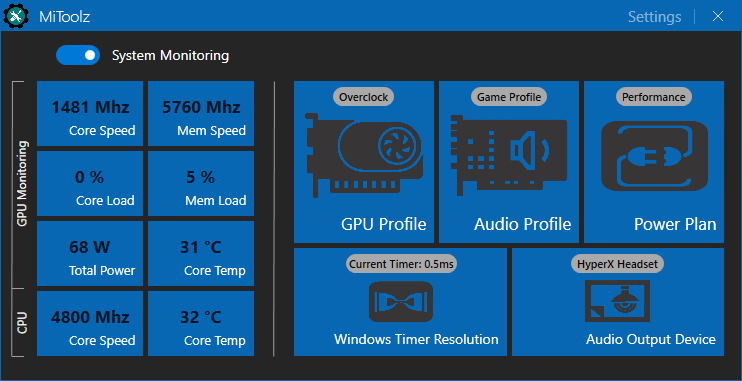
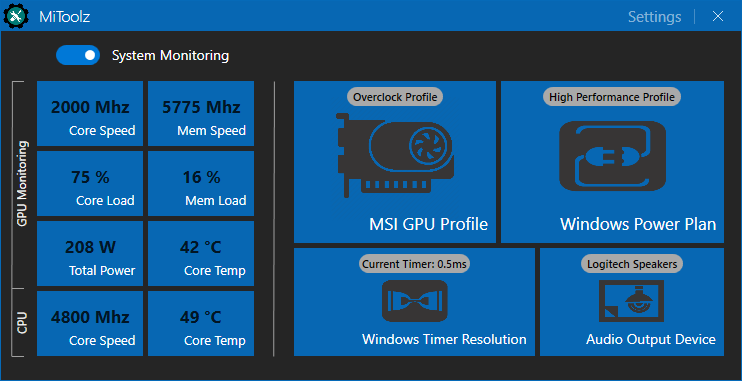
Update v3.6.0 ..
- Removed Soundblaster Audio profile switcher (Using APO Equalizer on main machine which has the ability to know when device has been switched and can assign equalizer profile based on default assigned audio device)
- Removed unused methods etc
- Updated readme to reflect new changes and features
- Updated repo images to reflect new changes etc
- Bumped to v3.6.0

diff --git a/MiToolz/MainWindow.xaml b/MiToolz/MainWindow.xaml
@@ -236,7 +236,7 @@
         </Separator>
         <mah:Tile x:Name="GpuTile"
                   Click="GpuTile_OnClick"
-                  Title="GPU Profile"
+                  Title="MSI GPU Profile"
                   TitleFontSize="17"
                   HorizontalTitleAlignment="Right"
                   Margin="267,50,0,0"
@@ -246,7 +246,8 @@
                   Height="162"
                   VerticalAlignment="Top"
                   HorizontalAlignment="Left"
-                  IsTabStop="False">
+                  IsTabStop="False"
+                  Width="202">
             <mah:Badged x:Name="GpuProfileBadge"
                         Badge=""
                         BadgeForeground="Black"
@@ -261,17 +262,18 @@
         </mah:Tile>
         <mah:Tile x:Name="PowerPlanTile"
                   Click="PowerPlanTile_OnCLick"
-                  Title="Power Plan"
+                  Title="Windows Power Plan"
                   TitleFontSize="17"
                   HorizontalTitleAlignment="Right"
-                  Margin="557,50,0,0"
+                  Margin="474,50,0,0"
                   mah:ControlsHelper.MouseOverBorderBrush="{DynamicResource MahApps.Brushes.ThemeForeground}"
                   Background="{DynamicResource MahApps.Brushes.Accent}"
                   Cursor="Hand"
                   Height="162"
                   VerticalAlignment="Top"
                   HorizontalAlignment="Left"
-                  IsTabStop="False">
+                  IsTabStop="False"
+                  Width="223">
             <mah:Badged x:Name="PowerPlanBadge"
                         Badge=""
                         BadgeForeground="Black"
@@ -280,31 +282,6 @@
                 <Image VerticalAlignment="Center"
                        HorizontalAlignment="Center"
                        Source="pack://siteoforigin:,,,/Resources/Image_PowerPlan.png"
-                       Width="130"
-                       Height="130" />
-            </mah:Badged>
-        </mah:Tile>
-        <mah:Tile x:Name="AudioTile"
-                  Click="AudioTile_OnClick"
-                  Title="Audio Profile"
-                  TitleFontSize="17"
-                  HorizontalTitleAlignment="Right"
-                  Margin="412,50,0,0"
-                  mah:ControlsHelper.MouseOverBorderBrush="{DynamicResource MahApps.Brushes.ThemeForeground}"
-                  Background="{DynamicResource MahApps.Brushes.Accent}"
-                  Cursor="Hand"
-                  Height="162"
-                  VerticalAlignment="Top"
-                  HorizontalAlignment="Left"
-                  IsTabStop="False">
-            <mah:Badged x:Name="AudioProfileBadge"
-                        Badge=""
-                        BadgeForeground="Black"
-                        BadgePlacementMode="Top"
-                        BadgeBackground="DarkGray">
-                <Image VerticalAlignment="Center"
-                       HorizontalAlignment="Center"
-                       Source="pack://siteoforigin:,,,/Resources/Image_Audio.png"
                        Width="130"
                        Height="130" />
             </mah:Badged>
@@ -319,7 +296,7 @@
                   Background="{DynamicResource MahApps.Brushes.Accent}"
                   Cursor="Hand"
                   Height="108"
-                  Width="213"
+                  Width="241"
                   VerticalAlignment="Top"
                   HorizontalAlignment="Left"
                   IsTabStop="False">
@@ -329,12 +306,11 @@
                         BadgePlacementMode="Top"
                         BadgeBackground="DarkGray"
                         Height="76">
-            <Image VerticalAlignment="Center"
-                   HorizontalAlignment="Center"
+                <Image VerticalAlignment="Center"
+                       HorizontalAlignment="Center"
                        Source="pack://siteoforigin:,,,/Resources/Image_TimerResolution.png"
-                       Width="90"
-                       Height="74"
-                       Margin="0,2,0,0" />
+                       Width="99"
+                       Height="76" />
             </mah:Badged>
         </mah:Tile>
         <mah:Tile x:Name="AudioDeviceSwitchTile"
@@ -342,12 +318,12 @@
                   Title="Audio Output Device"
                   TitleFontSize="14"
                   HorizontalTitleAlignment="Right"
-                  Margin="485,217,0,0"
+                  Margin="513,217,0,0"
                   mah:ControlsHelper.MouseOverBorderBrush="{DynamicResource MahApps.Brushes.ThemeForeground}"
                   Background="{DynamicResource MahApps.Brushes.Accent}"
                   Cursor="Hand"
                   Height="108"
-                  Width="212"
+                  Width="184"
                   VerticalAlignment="Top"
                   HorizontalAlignment="Left"
                   IsTabStop="False">

diff --git a/MiToolz/App.xaml b/MiToolz/App.xaml
@@ -16,9 +16,9 @@
                 </ResourceDictionary>
             </ResourceDictionary.MergedDictionaries>
             <system:String x:Key="VersionNo"
-                           xml:space="preserve">  MiToolz  v3.5.2  </system:String>
+                           xml:space="preserve">  MiToolz  v3.6.0  </system:String>
             <system:String x:Key="VersionDate"
-                           xml:space="preserve">  Build Date : 29-06-2020  </system:String>
+                           xml:space="preserve">  Build Date : 16-07-2020  </system:String>
         </ResourceDictionary>
     </Application.Resources>
 </Application>

diff --git a/MiToolz/MainWindow.xaml.cs b/MiToolz/MainWindow.xaml.cs
@@ -28,7 +28,6 @@ namespace MiToolz
         private static string _powerPlanBalanced;
         private static string _powerPlanPerformance;
         private static string _sbControlFile;
-        private static string _sbControlActiveProfile;
         private static string _msiabFile;
         private static string _isMonitoringEnabled;
         private static string _appTheme;
@@ -62,7 +61,6 @@ namespace MiToolz
             //run startup checks, read all config settings and set corresponding UI elements
             StartupSetup();
             SetAppTheme();
-            ShowActiveAudioProfile();
             ShowActiveGpuProfile();
             ShowActivePowerPlan();
             ShowDefaultAudioDevice();
@@ -91,12 +89,11 @@ namespace MiToolz
 
             //check for ini file, if not found then create new file and write default values to it
             var myConfigManager = Properties.Resources.MyConfigManager;
-            var sbControlFilePath = Properties.Resources.SBControl_FilePath;
             var msiabFilePath = Properties.Resources.MSIAB_FilePath;
             var defaultStockProfile = Properties.Resources.DefaultStockProfile;
             var defaultOcProfile = Properties.Resources.DefaultOCProfile;
             var powerPlanBalanced = Properties.Resources.PowerPlanBalanced;
-            var powerPlanPerformance = Properties.Resources.PowerPlanPerformance;
+            var powerPlanPerformance = Properties.Resources.PowerPlanHighPerformance;
             var defaultMonitoringEnabled = Properties.Resources.DefaultMonitoringEnabled;
             var defaultAppTheme = Properties.Resources.DefaultAppTheme;
             var defaultGameModeHotKey = Properties.Resources.DefaultGameModeHotKey;
@@ -112,7 +109,6 @@ namespace MiToolz
                 ConfigManager.IniWrite("OCProfile", defaultOcProfile);
                 ConfigManager.IniWrite("PowerPlanBalanced", powerPlanBalanced);
                 ConfigManager.IniWrite("PowerPlanPerformance", powerPlanPerformance);
-                ConfigManager.IniWrite("SBControl_File", sbControlFilePath);
                 ConfigManager.IniWrite("MSIAB_File", msiabFilePath);
                 ConfigManager.IniWrite("IsMonitoringEnabled", defaultMonitoringEnabled);
                 ConfigManager.IniWrite("AppTheme", defaultAppTheme);
@@ -147,27 +143,6 @@ namespace MiToolz
             _audioDevice1 = ConfigManager.IniRead("AudioDeviceNo1");
             _audioDevice2 = ConfigManager.IniRead("AudioDeviceNo2");
             _defaultAudioDevice = ConfigManager.IniRead("DefaultAudioDevice");
-
-            var sbControlProfileFilePath = Properties.Resources.SBControl_ProfileFilePath;
-            var sbControlProfileRegPath = Properties.Resources.SBControl_ProfileRegPath;
-
-            //full path to profile folder
-            var userProfile = Environment.GetFolderPath(Environment.SpecialFolder.UserProfile);
-            var sbPath = userProfile + @"\" + sbControlProfileFilePath;
-
-            //get folder name of subfolder/deviceID (HDAUDIO_VEN_10EC_DEV_0899_SUBSYS_11020041 etc)
-            var sbGetIdDir = Directory.GetDirectories(sbPath, "HDAUDIO*", SearchOption.TopDirectoryOnly);
-            var sbDeviceIdPath = string.Join("", sbGetIdDir);
-            var sbDeviceId = sbDeviceIdPath.Substring(sbDeviceIdPath.LastIndexOf(@"\", StringComparison.Ordinal) + 1);
-
-            //get registry key value for active profile using deviceID
-            var sbRegKeyName = sbControlProfileRegPath + sbDeviceId;
-            var sbGetValue = ConfigManager.RegReadKeyValue(sbRegKeyName, "Profile");
-            var sbRegKeyValue = sbGetValue.Substring(sbGetValue.LastIndexOf(@"\", StringComparison.Ordinal) + 1);
-
-            //read profile xml and extract profile_name value
-            var fullXmlFilePath = sbDeviceIdPath + @"\" + sbRegKeyValue;
-            _sbControlActiveProfile = ConfigManager.XmlRead(fullXmlFilePath);
         }
 
         private void SetAppTheme()
@@ -229,26 +204,14 @@ namespace MiToolz
 
             if (activePLvalue > defaultPLvalue)
             {
-                GpuProfileBadge.Badge = " Overclock ";
+                GpuProfileBadge.Badge = " Overclock Profile ";
             }
             else
             {
-                GpuProfileBadge.Badge = " Default ";
+                GpuProfileBadge.Badge = " Default Profile ";
             }
 
             showProfileProcess.WaitForExit();
-        }
-
-        //show which Audio profile is active
-        private void ShowActiveAudioProfile()
-        {
-            var soundBlasterActiveProfile = " " + _sbControlActiveProfile + " ";
-            var soundBlasterBadge = AudioProfileBadge.Badge.ToString();
-
-            if (soundBlasterBadge != soundBlasterActiveProfile)
-            {
-                AudioProfileBadge.Badge = " " + _sbControlActiveProfile + " ";
-            }
         }
 
         //show which Power Plan is active
@@ -275,11 +238,11 @@ namespace MiToolz
 
             if (activePlan.Contains(_powerPlanBalanced))
             {
-                _activePowerPlan = " " + "Balanced" + " ";
+                _activePowerPlan = " " + "Balanced Profile" + " ";
             }
             if (activePlan.Contains(_powerPlanPerformance))
             {
-                _activePowerPlan = " " + "Performance" + " ";
+                _activePowerPlan = " " + "High Performance Profile" + " ";
             }
 
             if (PowerPlanBadge.ToString() != _activePowerPlan)
@@ -584,10 +547,10 @@ namespace MiToolz
 
             switch (badgeString)
             {
-                case " Overclock ":
+                case " Overclock Profile ":
                     ApplyProfile("SetStock");
                     break;
-                case " Default ":
+                case " Default Profile ":
                     ApplyProfile("SetOC");
                     break;
             }
@@ -642,10 +605,10 @@ namespace MiToolz
 
             switch (badgeString)
             {
-                case " Balanced ":
+                case " Balanced Profile ":
                     ApplyPowerPlan(_powerPlanPerformance);
                     break;
-                case " Performance ":
+                case " High Performance Profile ":
                     ApplyPowerPlan(_powerPlanBalanced);
                     break;
             }
@@ -1003,10 +966,10 @@ namespace MiToolz
             {
                 switch (PowerPlanBadge.Badge.ToString())
                 {
-                    case " Performance " when GpuProfileBadge.Badge.ToString() == " Default ":
+                    case " High Performance Profile " when GpuProfileBadge.Badge.ToString() == " Default Profile ":
                         GpuTile_OnClick(sender, e);
                         break;
-                    case " Balanced " when GpuProfileBadge.Badge.ToString() == " Overclock ":
+                    case " Balanced Profile " when GpuProfileBadge.Badge.ToString() == " Overclock Profile ":
                         PowerPlanTile_OnCLick(sender, e);
                         break;
                     default:
@@ -1045,7 +1008,6 @@ namespace MiToolz
         private void MainWindow_Activated(object sender, EventArgs e)
         {
             ReadSettings();
-            ShowActiveAudioProfile();
             ShowActiveGpuProfile();
             ShowActivePowerPlan();
             ShowDefaultAudioDevice();

diff --git a/MiToolz/Properties/Resources.Designer.cs b/MiToolz/Properties/Resources.Designer.cs
@@ -213,36 +213,9 @@ namespace MiToolz.Properties {
         /// <summary>
         ///   Looks up a localized string similar to 8c5e7fda-e8bf-4a96-9a85-a6e23a8c635c.
         /// </summary>
-        internal static string PowerPlanPerformance {
+        internal static string PowerPlanHighPerformance {
             get {
-                return ResourceManager.GetString("PowerPlanPerformance", resourceCulture);
-            }
-        }
-        
-        /// <summary>
-        ///   Looks up a localized string similar to C:\Program Files (x86)\Creative\Sound Blaster Audigy Fx\Sound Blaster Audigy Fx Control Panel\SBAdgyFx.exe.
-        /// </summary>
-        internal static string SBControl_FilePath {
-            get {
-                return ResourceManager.GetString("SBControl_FilePath", resourceCulture);
-            }
-        }
-        
-        /// <summary>
-        ///   Looks up a localized string similar to AppData\Local\Creative\Sound Blaster Audigy Fx Control Panel\profile\.
-        /// </summary>
-        internal static string SBControl_ProfileFilePath {
-            get {
-                return ResourceManager.GetString("SBControl_ProfileFilePath", resourceCulture);
-            }
-        }
-        
-        /// <summary>
-        ///   Looks up a localized string similar to Software\Creative Tech\Sound Blaster Audigy Fx Control Panel\Settings\.
-        /// </summary>
-        internal static string SBControl_ProfileRegPath {
-            get {
-                return ResourceManager.GetString("SBControl_ProfileRegPath", resourceCulture);
+                return ResourceManager.GetString("PowerPlanHighPerformance", resourceCulture);
             }
         }
     }

diff --git a/MiToolz/ListManager.cs b/MiToolz/ListManager.cs
@@ -49,7 +49,6 @@ namespace MiToolz
                 {
                     _mw.GpuTile,
                     _mw.PowerPlanTile,
-                    _mw.AudioTile,
                     _mw.TimerResolutionTile,
                     _mw.AudioDeviceSwitchTile
                 };

diff --git a/MiToolz/Properties/AssemblyInfo.cs b/MiToolz/Properties/AssemblyInfo.cs
@@ -50,4 +50,4 @@ using System.Windows;
 // by using the '*' as shown below:
 // [assembly: AssemblyVersion("1.0.*")]
 [assembly: AssemblyVersion("1.0.0.0")]
-[assembly: AssemblyFileVersion("3.5.2.0")]
+[assembly: AssemblyFileVersion("3.6.0.0")]

diff --git a/README.md b/README.md
@@ -2,7 +2,7 @@
 
 
 ## About >
-Personal Nvidia GPU &amp; Creative SoundBlaster Audio QuickTool with built-in real-time monitoring
+Personal Nvidia GPU &amp; Audio QuickTool with built-in real-time monitoring
 
 
 ## Framework & library dependencies >
@@ -17,11 +17,20 @@ NirCmd > https://www.nirsoft.net/utils/nircmd.html
   (doesn't need to be running. MiToolz will send the selected profile to MSI-Afterburner and then close it immediately)
 
 
-## Planned >
-1. ~~Add ability to switch audio output devices from within MiToolz itself~~  >> Completed.  
-2. ~~Add option (service) for changing the Windows Timer Resolution setting, ie 1ms or 0.5ms etc~~  >> Completed.  
-3. Implement universal audio equalizer to remove reliance of proprietary audio software ie, Creative SoundBlaster control panel etc  
-
+## Features >
+1. Ability to change MSI Afterburner Profiles on the fly  
+2. Option to change the Windows Power Plan between 'Balanced' and 'High Performance' Profiles  
+3. Swap between different Windows Audio Output Devices  
+4. Ability to switch between the default Windows Timer Resolution value and 0.5ms Timer Resolution (using new built in service   which can be installed/uninstalled at any time within the settings panel)  
+5. Realtime System monitoring of the following data ..  
+  - GPU Core Speed
+  - GPU Memory Speed
+  - GPU Core Load %
+  - GPU Memory Load %
+  - GPU Total Power Usage watts
+  - GPU Core Temperature
+  - CPU Core Speed
+  - CPU Core Temperature
 
 ## Screens >
 
